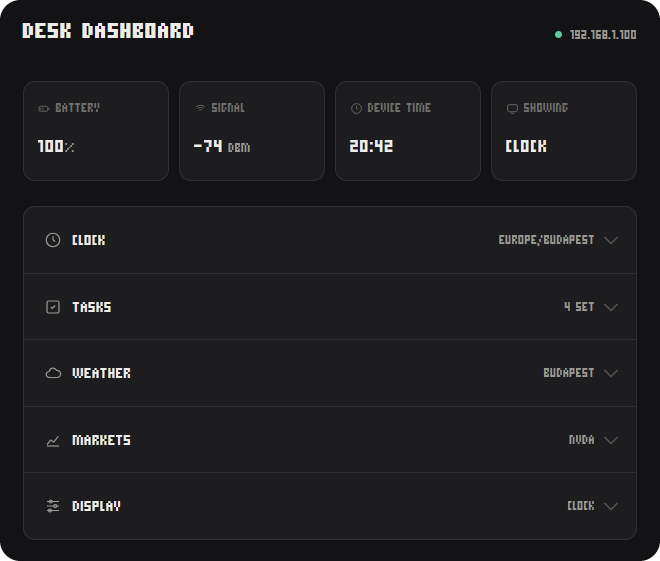
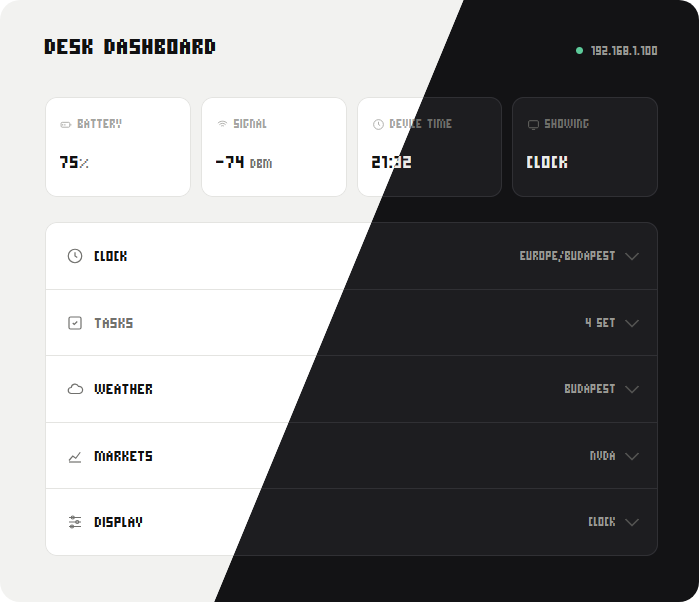
docs(readme): update images

diff --git a/README.md b/README.md
@@ -14,37 +14,26 @@ Four screens cycle on a timer, or one can be pinned, both configurable via the w
 
 Time from NTP, with the timezone chosen from the web page and daylight saving worked out automatically from it. The date line under the clock can be toggled on or off.
 
-<p>
-  <img src="docs/clock_w.png" width="360" alt="Clock screen, light mode">
-  <img src="docs/clock_b.png" width="360" alt="Clock screen, dark mode">
-</p>
+<img src="docs/clock.png" width="440" alt="Clock screen, light and dark">
 
 ### Tasks
 
 Five slots, edited from the web page. Shows the current date and how many entered tasks are complete. Completed tasks are struck through; deleting one closes the gap.
 
-<p>
-  <img src="docs/tasks_w.png" width="360" alt="Tasks screen, light mode">
-  <img src="docs/tasks_b.png" width="360" alt="Tasks screen, dark mode">
-</p>
+<img src="docs/tasks.png" width="440" alt="Tasks screen, light and dark">
 
 ### Weather
 
 Current conditions with a weather icon and today's high and low, plus a four-day forecast, from Open-Meteo. Location is searched by city name from the web page, along with a choice of Celsius or Fahrenheit. No API key needed.
 
-<p>
-  <img src="docs/weather_w.png" width="360" alt="Weather screen, light mode">
-  <img src="docs/weather_b.png" width="360" alt="Weather screen, dark mode">
-</p>
+<img src="docs/weather.png" width="440" alt="Weather screen, light and dark">
 
 ### Markets
 
 A quote with the change since the previous close, and a sparkline of the session. The header shows whether the NYSE is open or closed. Any US stock or ETF can be chosen from the web page, searched by name or ticker, with SPY as the default. Needs a free Twelve Data key, also entered from the web page.
 
-<p>
-  <img src="docs/markets_w.png" width="360" alt="Marekts screen, light mode">
-  <img src="docs/markets_b.png" width="360" alt="Markets screen, dark mode">
-</p>
+
+<img src="docs/markets.png" width="440" alt="Markets screen, light and dark">
 
 ---
 
